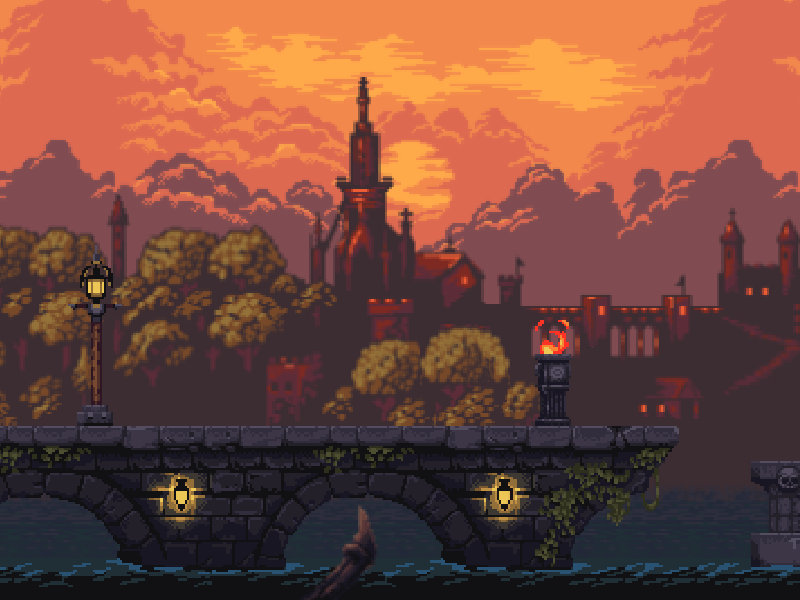
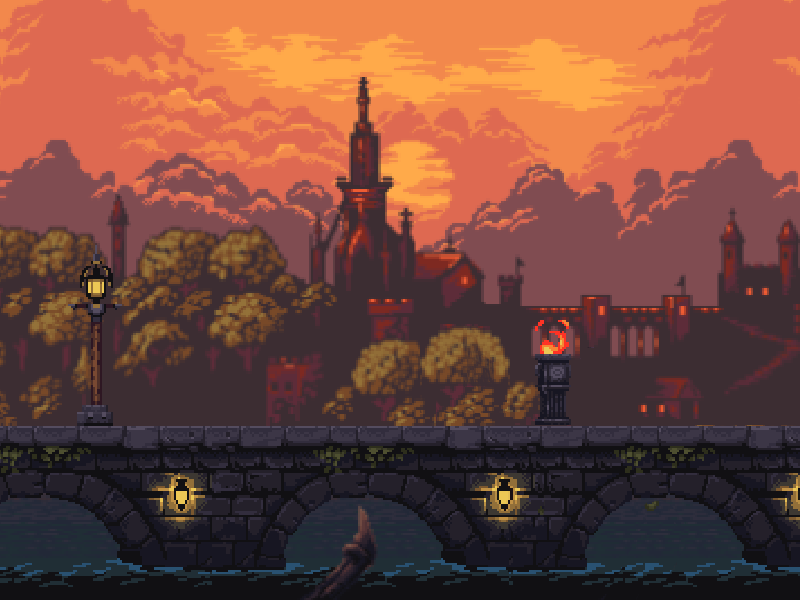
Agregado de sprites e implementacion de clase Boss

Changed region(s): [[0.625, 0.69, 1.0, 0.99], [0.9375, 0.69, 0.9688, 0.72]]

diff --git a/Videojuego_Final/boss.cpp b/Videojuego_Final/boss.cpp
@@ -1,37 +1,24 @@
-#include "jugadorbatalla.h"
-#include <QDebug>
+#include "boss.h"
 
-JugadorBatalla::JugadorBatalla(QObject *parent) : QObject(parent)
+Boss::Boss(QObject *parent) : QObject(parent)
 {
-    banLeft = false;
-    banRight = false;
-
-    QTimer *timer1 = new QTimer;
-    connect(timer1, SIGNAL(timeout()), this, SLOT(moveLeft()));
-    connect(timer1, SIGNAL(timeout()), this, SLOT(moveRight()));
-    timer1->start(30);
-
-    //Timer para las actualización y dibujo del sprite.
-    timer = new QTimer(this);
     columnas = 0;
     fila = 0;
-
-    //Ancho y alto del sprite del jugador
-    ancho = 84;
-    alto  = 84;
+    ancho = 160;
+    alto  = 144;
+    timer = new QTimer(this);
     connect(timer,SIGNAL(timeout()),this,SLOT(Actualizacion()));
-    /*Este timer nos permitira la constante actualizacion de la imagen de nuestro jugador*/
-    timer->start(150);
+    timer->start(100);
 }
 
-QRectF JugadorBatalla::boundingRect() const
+QRectF Boss::boundingRect() const
 {
     /*La funcion propia de qt bodingRect, crea y retorna el rectangulo que conforma la figura del jugador y en el cual pintaremos nuestra
     imagen. -ancho/2,-alto/2 permite que el punto de origen del rectangulo siempre sea le centro de la imagen y no la esquina superior.*/
     return QRectF(-ancho/2,-alto/2,ancho,alto);
 }
 
-void JugadorBatalla::paint(QPainter *painter, const QStyleOptionGraphicsItem *option, QWidget *widget)
+void Boss::paint(QPainter *painter, const QStyleOptionGraphicsItem *option, QWidget *widget)
 {
     /*Funcion propia de Qt que nos permite dibujar dentro del boundingRect la imagen que queramos, para hacer esto debemos introducirle
     al drawPixmap algunos datos como el punto en el que queremos que empiece a dibujar, el pixmap a dibujar, el ancho y alto de
@@ -43,41 +30,19 @@ void JugadorBatalla::paint(QPainter *painter, const QStyleOptionGraphicsItem *op
     painter->drawPixmap(-ancho/2,-alto/2,*pixmap,columnas,fila,ancho,alto);
 }
 
-void JugadorBatalla::Actualizacion()
+void Boss::Actualizacion()
 {
     /*La imagen sprite del jugador es una imagen que estaba dividida por filas y por columnas, cada fila determina un movimiento o
     accion diferente hecha por el jugador, y las columnas son frames que permiten que esa accion se vea con movimiento, entonces mediante
     un timer estaremos constantemente interactuando en las columnas de determinada fila para asi ir generando una animacion fluida y
     continua.*/
-    if(columnas >= 336 or (fila >= 672 and columnas >= 168))//El archivo consta de 6 columnas de 84x84, cuando se llegue a la sexta columna se iniciara de nuevo
+    if(columnas >= 800)//El archivo consta de 6 columnas de 84x84, cuando se llegue a la sexta columna se iniciara de nuevo
     {
-        columnas = 84;
+        columnas = 0;
     }
     else{
-        columnas += 84;
+        columnas += 160;
     }
     this->update(-ancho/2,-alto/2,ancho,alto);/*La funcion update constantemente actualiza el boundingRect del jugador para que su
     origen siempre sea la mitad de la imagen actual.*/
-}
-
-void JugadorBatalla::moveLeft()
-{
-    if (banLeft)
-    {
-        fila=420;
-        if(x()>0){
-        setPos(x()-5,y());
-        }
-    }
-}
-
-void JugadorBatalla::moveRight()
-{
-    if (banRight)
-    {
-        fila = 504;
-        if(x()<930){
-        setPos(x()+5,y());
-    }
-    }
 }

diff --git a/Videojuego_Final/niveles.cpp b/Videojuego_Final/niveles.cpp
@@ -24,44 +24,57 @@ Niveles::Niveles(QWidget *parent) :
     ui->graphicsView->setScene(escena);
     fondo = new QGraphicsPixmapItem;
     fondo->setPos(0,0);
-    if(nivel==1)fondo->setPixmap(QPixmap(":/Imagenes/TUTORIAL.png").scaled(1132,650));
-    if(nivel==2)fondo->setPixmap(QPixmap(":/Imagenes/NIVEL1.png").scaled(1000,632));
-    if(nivel==3)fondo->setPixmap(QPixmap(":/Imagenes/NIVEL2.png").scaled(1000,650));
     escena->addItem(fondo);
-
     if (num_jugadores == 1){ //Solo un jugador
-        jugadorBatalla= new JugadorBatalla(this);
-        jugadorBatalla->setRect(0,550,50,50);
-        if(nivel==1) jugadorBatalla->setPos(120,-60);
-        if(nivel==2) jugadorBatalla->setPos(50,-20);
-        if(nivel==3) jugadorBatalla->setPos(20,-140);
-        jugadorBatalla->setBrush(QBrush(Qt::red));
+        jugadorBatalla = new JugadorBatalla(this);
+        jugadorBatalla->pixmap = new QPixmap(":/Imagenes/SPRITEPLAYER.png");
         escena->addItem(jugadorBatalla);
+        NivelSetup();
     }
     else if (num_jugadores == 2){ //Dos jugadores
         pj2 = true;
         jugadorBatalla = new JugadorBatalla(this);
-        jugadorBatalla->setBrush(QBrush(Qt::red));
-        jugadorBatalla->setRect(0,550,50,50);
-        if(nivel==1) jugadorBatalla->setPos(120,-60);
-        if(nivel==2) jugadorBatalla->setPos(50,-20);
-        if(nivel==3) jugadorBatalla->setPos(20,-140);
+        jugadorBatalla->pixmap = new QPixmap(":/Imagenes/SPRITEPLAYER.png");
         escena->addItem(jugadorBatalla);
 
         jugadorBatalla2 = new JugadorBatalla(jugadorBatalla);
-        jugadorBatalla2->setBrush(QBrush(Qt::blue));
-        jugadorBatalla2->setRect(0,550,50,50);
-        if(nivel==1) jugadorBatalla2->setPos(250,-60);
-        if(nivel==2) jugadorBatalla2->setPos(140,-20);
-        if(nivel==3) jugadorBatalla2->setPos(135,-140);
+        jugadorBatalla2->pixmap = new QPixmap(":/Imagenes/SPRITEPLAYER2.png");
         escena->addItem(jugadorBatalla2);
-
+        NivelSetup();
     }
 }
 
 Niveles::~Niveles()
 {
     delete ui;
+}
+
+void Niveles::NivelSetup()
+{
+    if(nivel==1){
+        fondo->setPixmap(QPixmap(":/Imagenes/TUTORIAL.png").scaled(1132,650));
+        jugadorBatalla->setPos(120,490);
+        if(num_jugadores==2)jugadorBatalla2->setPos(250,490);
+        boss = new Boss(this);
+        boss->pixmap = new QPixmap(":/Imagenes/BOSS1.png");
+        boss->setPos(900,490);
+        escena->addItem(boss);
+    }
+    if(nivel==2){
+        fondo->setPixmap(QPixmap(":/Imagenes/NIVEL1.png").scaled(1000,650));
+        jugadorBatalla->setPos(50,545);
+        if(num_jugadores==2)jugadorBatalla2->setPos(140,545);
+    }
+    if(nivel==3){
+        fondo->setPixmap(QPixmap(":/Imagenes/NIVEL2.png").scaled(1000,650));
+        jugadorBatalla->setPos(20,408);
+        if(num_jugadores==2)jugadorBatalla2->setPos(135,408);
+    }
+    if(nivel==4){
+        fondo->setPixmap(QPixmap(":/Imagenes/NIVEL3.png").scaled(1000,650));
+        jugadorBatalla->setPos(20,550);
+        if(num_jugadores==2)jugadorBatalla2->setPos(135,550);
+    }
 }
 
 void Niveles::keyPressEvent(QKeyEvent *event)

diff --git a/Videojuego_Final/jugadorbatalla.h b/Videojuego_Final/jugadorbatalla.h
@@ -3,24 +3,28 @@
 
 #include <QObject>
 #include <QGraphicsPixmapItem>
-#include <QGraphicsRectItem>
 #include <QTimer>
 #include <QPainter>
 
-class JugadorBatalla: public QObject, public QGraphicsRectItem
+class JugadorBatalla: public QObject, public QGraphicsPixmapItem
 {
     Q_OBJECT
 public:
     explicit JugadorBatalla(QObject *parent = nullptr);
     inline bool setBanLeft() {return banLeft = true;}
     inline bool setBanRight() {return banRight = true;}
-    inline bool resetBanLeft() {return banLeft = false;}
-    inline bool resetBanRight() {return banRight = false;}
+    inline bool resetBanLeft() {fila=168; return banLeft = false;}
+    inline bool resetBanRight() {fila=252; return banRight = false;}
 
     QTimer *timer;
+    QPixmap *pixmap;
+    float columnas,fila,ancho,alto;
+    QRectF boundingRect() const;
+    void paint(QPainter *painter, const QStyleOptionGraphicsItem *option, QWidget *widget);
 signals:
 
 public slots:
+    void Actualizacion(); //Actualiza el sprite
     //Señales para el movimiento del jugador
     void moveLeft();
     void moveRight();

diff --git a/Videojuego_Final/boss.h b/Videojuego_Final/boss.h
@@ -1,0 +1,23 @@
+#ifndef BOSS_H
+#define BOSS_H
+
+#include <QObject>
+#include <QGraphicsPixmapItem>
+#include <QTimer>
+#include <QPainter>
+
+class Boss: public QObject, public QGraphicsPixmapItem
+{
+    Q_OBJECT
+public:
+    explicit Boss(QObject *parent = nullptr);
+    QTimer *timer;
+    QPixmap *pixmap;
+    float columnas,fila,ancho,alto;
+    QRectF boundingRect() const;
+    void paint(QPainter *painter, const QStyleOptionGraphicsItem *option, QWidget *widget);
+private slots:
+    void Actualizacion();
+};
+
+#endif // BOSS_H

diff --git a/Videojuego_Final/niveles.h b/Videojuego_Final/niveles.h
@@ -6,6 +6,7 @@
 #include <QKeyEvent>
 #include <QGraphicsPixmapItem>
 #include "jugadorbatalla.h"
+#include "boss.h"
 
 namespace Ui {
 class Niveles;
@@ -18,13 +19,14 @@ class Niveles : public QWidget
 public:
     explicit Niveles(QWidget *parent = nullptr);
     ~Niveles();
-
+    void NivelSetup();
     void keyPressEvent(QKeyEvent * event);
     void keyReleaseEvent(QKeyEvent *event);
 
 private:
     Ui::Niveles *ui;
     QGraphicsScene *escena;
+    Boss *boss;
     QGraphicsPixmapItem *fondo;
     bool pj2;
 };
